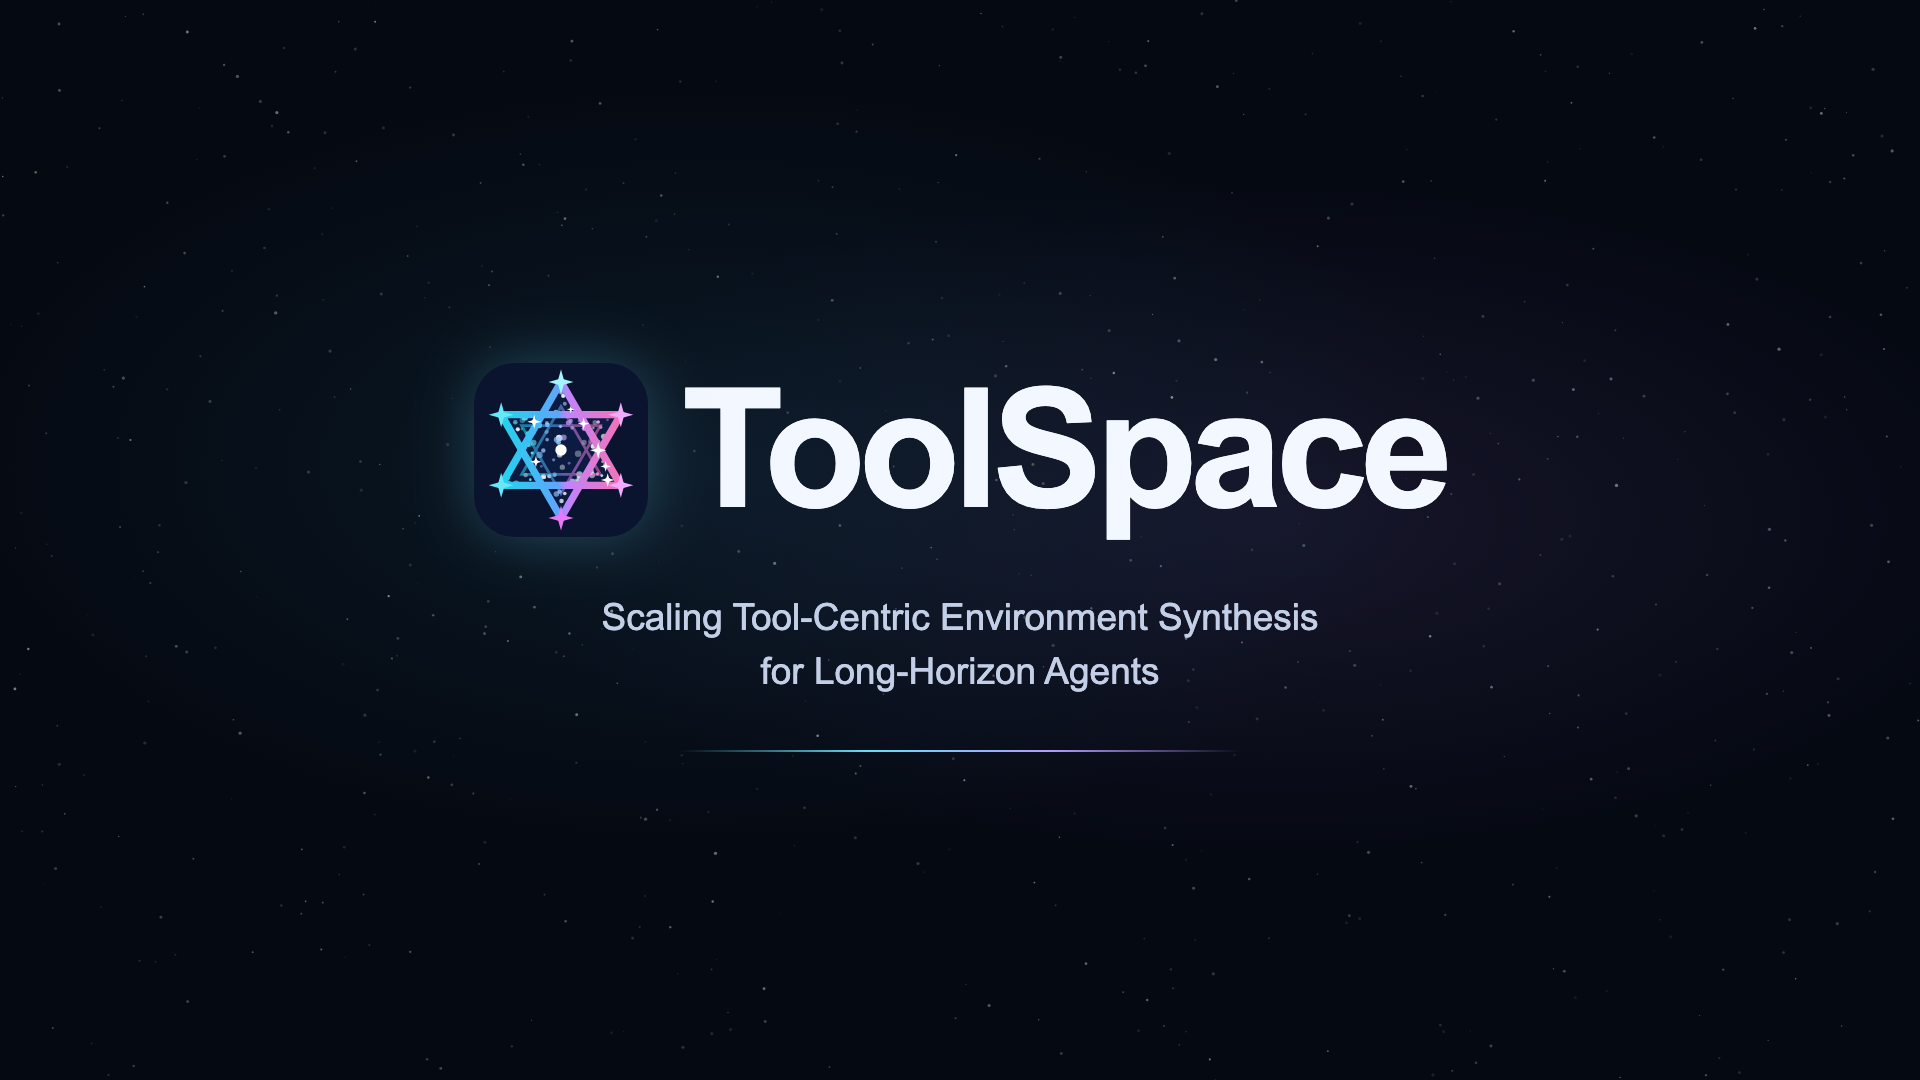
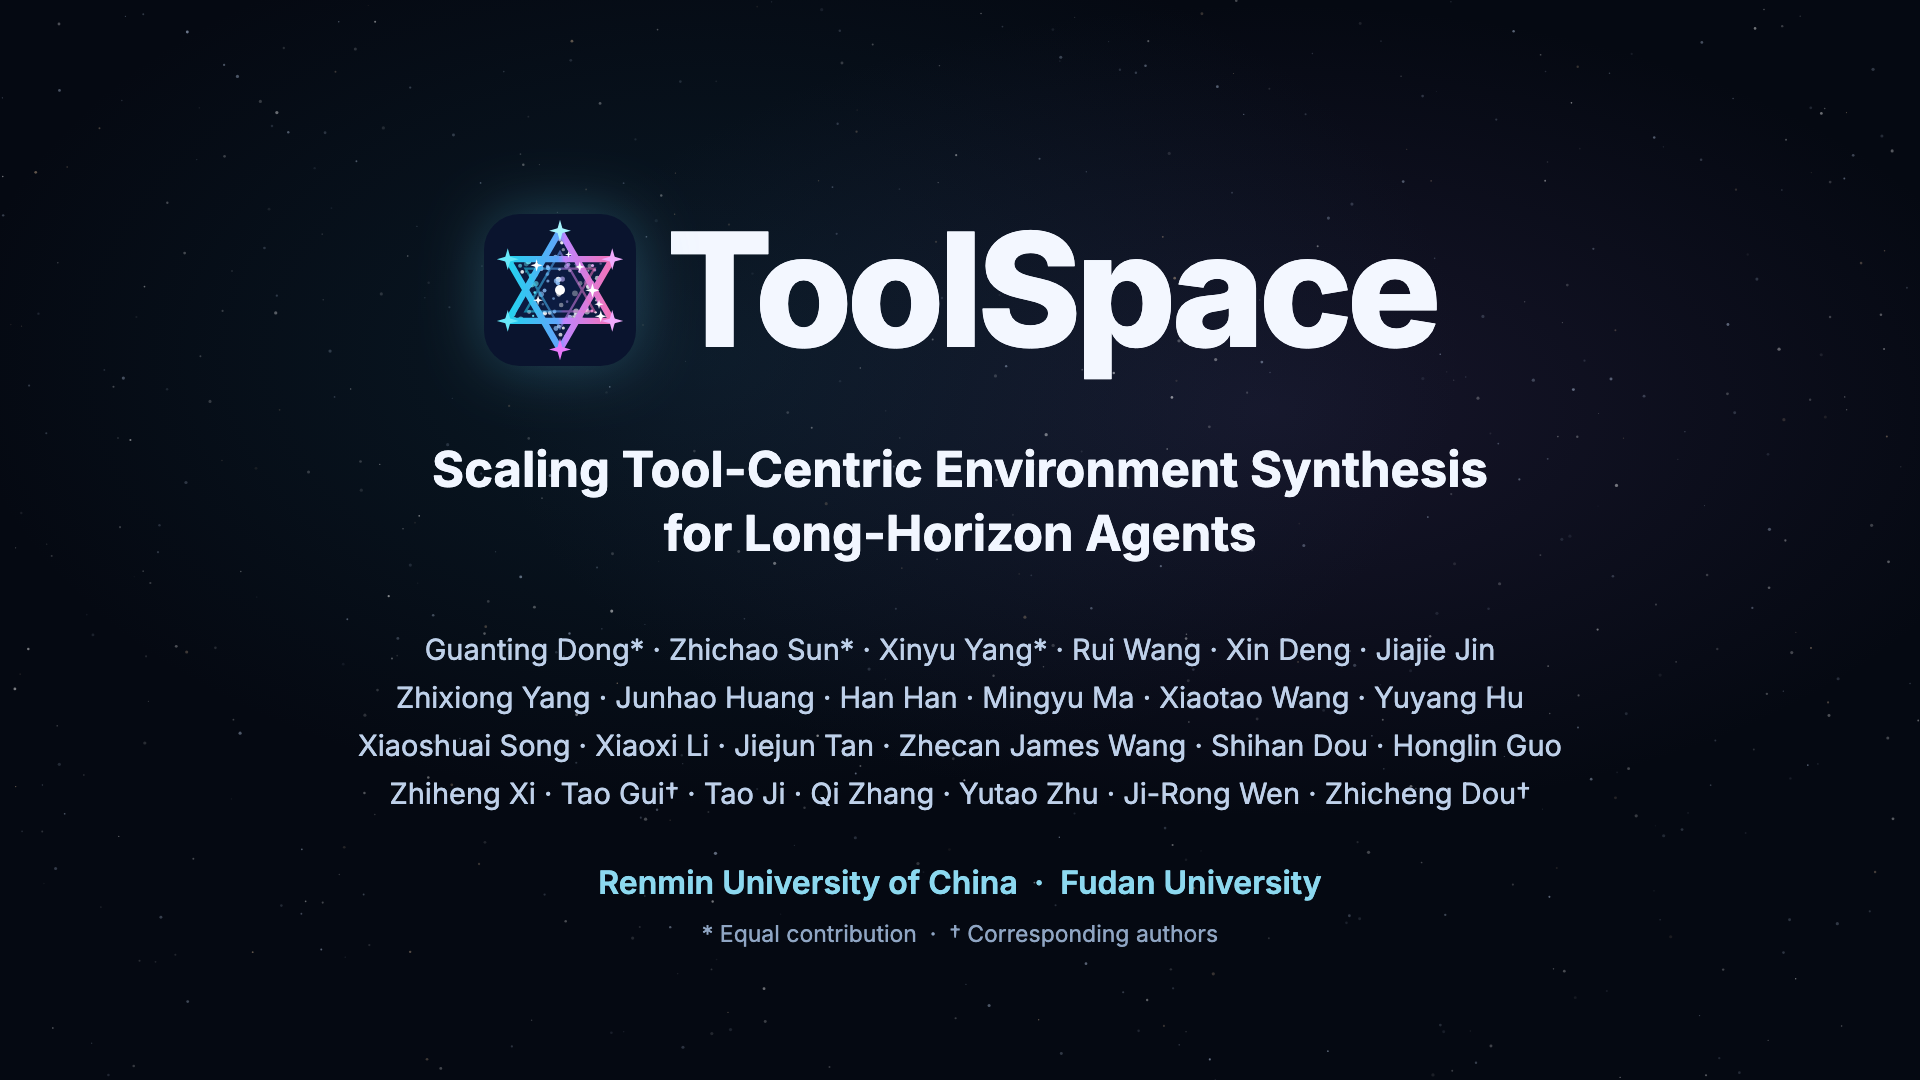
Clarify ToolSpace demo narrative and update seven-model Pro results

diff --git a/assets/README.md b/assets/README.md
@@ -9,8 +9,8 @@ The figures and video share a deep-blue palette with cyan/violet tool paths and 
 | `readme/title-light.svg`, `readme/title-dark.svg` | Enlarged logo and wordmark. GitHub's `#gh-light-mode-only` / `#gh-dark-mode-only` fragments follow the active GitHub theme. |
 | `readme/framework.png` | Unchanged Figure 2 from page 6 of the authors' supplied `ToolSpace_Arxiv.pdf`. |
 | `readme/results.svg` | Table 1 selected-model leaderboard and all seven ToolSpace-744B-A40B scores. SFT and subsequent RL are labeled separately. |
-| `readme/pro-results.png` | The authors' supplied two-panel AutomationBench Pro / Banking Pro comparison, included unchanged. The README explains the paper/public-release task-count distinction. |
-| Full video · GitHub issue attachment | 60-second Remotion paper demo, 1920 × 1080 at 30 fps, H.264 + AAC. The README embeds the [native GitHub attachment](https://github.com/user-attachments/assets/20d119c4-fc19-475f-9e29-e32a90258167), published in [issue #1](https://github.com/dongguanting/ToolSpace/issues/1). |
+| `readme/pro-results.svg`, `readme/pro-results-data.json` | Updated Table 2: seven frontier models and 28 standard/Pro values, checked against the homepage and the authors' revised table. |
+| Full video · GitHub issue attachment | 60-second Remotion paper demo, 1920 × 1080 at 30 fps, H.264 + AAC. The README embeds the [native GitHub attachment](https://github.com/user-attachments/assets/805c2843-fc7c-4f42-8341-8875010c0862), published in [issue #1](https://github.com/dongguanting/ToolSpace/issues/1). |
 | `demo/toolspace-preview.gif` | Compact excerpt of the ToolSpace particle opening, environment reveal and multi-environment walk. |
 | `demo/toolspace-poster.png` | ToolSpace wordmark and paper title, visible from the video's first frame. |
 | `demo/toolspace-overview.vtt` | English caption track for the new video. |
@@ -19,10 +19,10 @@ The figures and video share a deep-blue palette with cyan/violet tool paths and 
 
 The video was rebuilt on 2026-11-01 from the supplied paper and the project homepage source. It opens with ToolSpace, expands into ten environments, follows a multi-environment tool walk, illustrates replay verification, and closes with the paper's results. Short action labels, a continuous camera and cyan/rose/amber paths show selection, rejection and resampling. There is no bottom chapter progress bar.
 
-The starfield is a frame-deterministic Canvas port of the homepage's original hero: brightness tiers, warm/cool stars, halo gradients, flares, letter sampling and curved flights are preserved. A brief title cover precedes the particle formation. The tool close-up flows directly into four tracking moves before the camera pulls back to the environment network. The first ten environments use official Gmail, Drive, Sheets, Salesforce, Slack, Calendar, HubSpot, Notion, Zendesk and Asana logo images. The wider scene adds 38 authentic Simple Icons brand vectors; tool operations use Google Material icons. No generated photographs or emoji substitutes are used in this version.
+The starfield is a frame-deterministic Canvas port of the homepage's original hero: brightness tiers, warm/cool stars, halo gradients, flares, letter sampling and curved flights are preserved. The title cover and opening particle page include the full paper title, all 25 homepage authors and both institutions. The three opening captions introduce isolated environments, real tools and cross-environment walks. The camera zooms from ten environments into named Google Sheets tools, then follows four tool calls with the current tool and environment counts visible. The first ten environments use official Gmail, Drive, Sheets, Salesforce, Slack, Calendar, HubSpot, Notion, Zendesk and Asana logo images. The wider scene adds 38 authentic Simple Icons brand vectors; tool operations use Google Material icons. No generated photographs or emoji substitutes are used in this version.
 
 The walk uses the homepage's graph and weighted sampler: graph seed `20261028`, walk seed `4`, 160 tool nodes, ten environments, 32 accepted path nodes and one rejected candidate. Each displayed hop belongs to that graph. Repeated calls count as separate steps. This is a **project-page graph simulation**; it is not live service execution. The green replay wave illustrates the paper's verification stage rather than claiming an independent execution check of this simulated route.
 
-The final three scenes show the seven-benchmark model comparison, ToolSpace-generated Pro benchmarks, and environment/data scaling. Scores come from Tables 1–2 and Figure 7, not a new online benchmark run. The Pro image is author-supplied; its public 300-task label does not establish a rerun of the paper's reported 600-task AutomationBench Pro experiment.
+The full 32-call red chain expands across the screen, then folds into a labelled seven-call excerpt. Two animated branches reveal a natural-language task and assertion scripts, following the paper figure. Training shows all three backbones and outputs, with Agent RL for 8B / 35B and a direct SFT path for 744B. The final three scenes show the seven-benchmark model comparison, ToolSpace-generated Pro benchmarks, and environment/data scaling. Scores come from Tables 1–2 and Figure 7, not a new online benchmark run. Pro values use the authors' updated Table 2 and homepage, including DeepSeek-V4.1-Flash-1017. Both Pro panels animate every model from its standard score to its Pro score and show the resulting drop. The README distinguishes the public 300-task AutomationBench Pro package from the paper's 600-task experiment.
 
 The original 128 BPM score combines tonal percussion, bass, arpeggios and pitched transition accents. Noise-based hi-hats, snares, kick clicks and transition sweeps have been removed. [Arbor](https://github.com/RUC-NLPIR/Arbor) and [AREX-Skill](https://github.com/VectorSpaceLab/AREX-Skill) were studied for sparse composition, large transformations and visual continuity. [Remotion](https://www.remotion.dev/) and [React Bits](https://reactbits.dev/) informed the animation approach. No reference-demo footage, audio or artwork is included. Editable vectors contain no scripts or external font dependencies.

diff --git a/README.md b/README.md
@@ -29,10 +29,10 @@
 <a id="demo"></a>
 ## 🎬 ToolSpace in One Minute
 
-https://github.com/user-attachments/assets/20d119c4-fc19-475f-9e29-e32a90258167
+https://github.com/user-attachments/assets/805c2843-fc7c-4f42-8341-8875010c0862
 
 <p align="center">
-  <a href="https://github.com/user-attachments/assets/20d119c4-fc19-475f-9e29-e32a90258167"><b>▶ Watch / download the 1080p video</b></a> &nbsp;·&nbsp;
+  <a href="https://github.com/user-attachments/assets/805c2843-fc7c-4f42-8341-8875010c0862"><b>▶ Watch / download the 1080p video</b></a> &nbsp;·&nbsp;
   <a href="https://toolspace-agent.github.io/#demo"><b>Explore the interactive demo ↗</b></a><br>
   <sub>From tools to verified tasks, stronger agents, and harder benchmarks.</sub>
 </p>
@@ -91,9 +91,9 @@ Sample **state-compatible successors** by edge weight, grounding arguments in th
 
 ### Harder tasks with the Pro benchmarks
 
-Final scores on **AutomationBench Pro** and **Tau3 Banking Pro** (Table 2; higher is better).
+Final scores on **AutomationBench Pro** and **Tau3 Banking Pro** for seven frontier models, including **DeepSeek-V4.1-Flash-1017** (updated Table 2; higher is better).
 
-<p align="center"><img src="assets/readme/pro-results.png" width="100%" alt="AutomationBench Pro and Tau3 Banking Pro: standard and final Pro scores for six frontier models, with final Pro scores highlighted in rose"></p>
+<p align="center"><img src="assets/readme/pro-results.svg" width="100%" alt="AutomationBench Pro and Tau3 Banking Pro: standard and final Pro scores for seven frontier models, with final Pro scores highlighted in rose"></p>
 
 <sub>Published scores: Table 2. The paper describes 600 AutomationBench Pro tasks; the public [AutomationBench Pro](Automation-Pro/) package contains 300 frozen tasks. [Tau3 Banking Pro](Tau3-Banking-Pro/) contains 98 tasks, separate from the original 97-task banking set.</sub>
 
